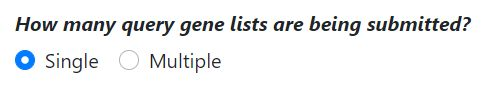
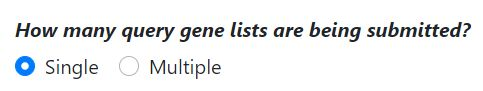
change images

Changed region(s): [[0.0311, 0.1882, 0.9938, 0.4706], [0.0311, 0.5882, 0.4658, 0.8706]]

diff --git a/magnet_app/templates/magnet_app/documentation.html b/magnet_app/templates/magnet_app/documentation.html
@@ -43,12 +43,12 @@
                 <div class="container">
                     <h3>Usage Instructions</h3>
                     <hr />
-                    <h4>Step 1: Specify how many gene sets/clusters you are submitting</h4>
+                    <h4>Step 1: Specify how many query gene lists/clusters you are submitting</h4>
                     <img src="{% static 'magnet_app/images/instruction_1.jpg' %}" alt="instruction_1"  width="40%">
                     
                     <br><br>
                     
-                    <h4>Step 2: Upload your gene sets/clusters</h4>
+                    <h4>Step 2: Upload your query gene lists/clusters</h4>
                     <p>Input the gene sets through either text area or file upload. If you selected multiple clusters in Step 1, only file upload will be available.</p>
       
                     <img src="{% static 'magnet_app/images/instruction_2.jpg' %}" alt="instruction_2" width="40%">
